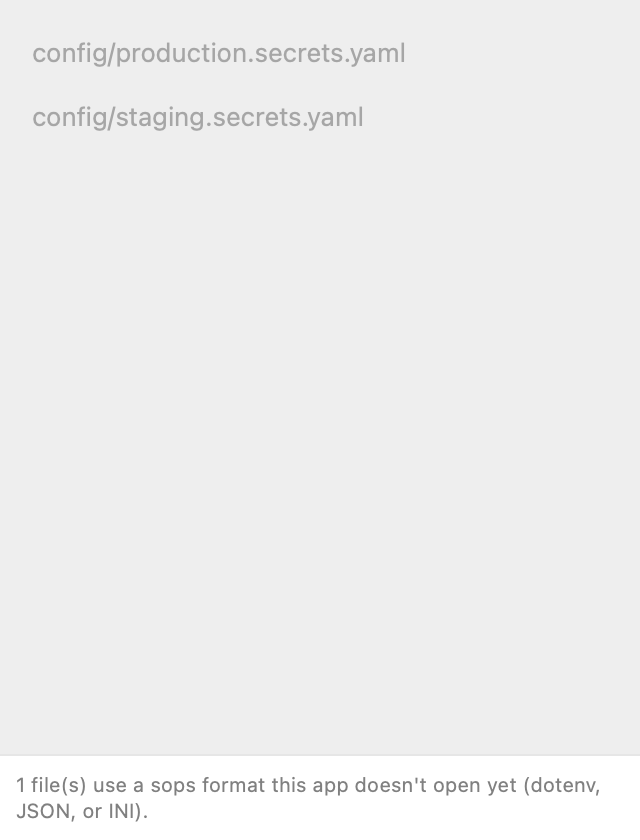
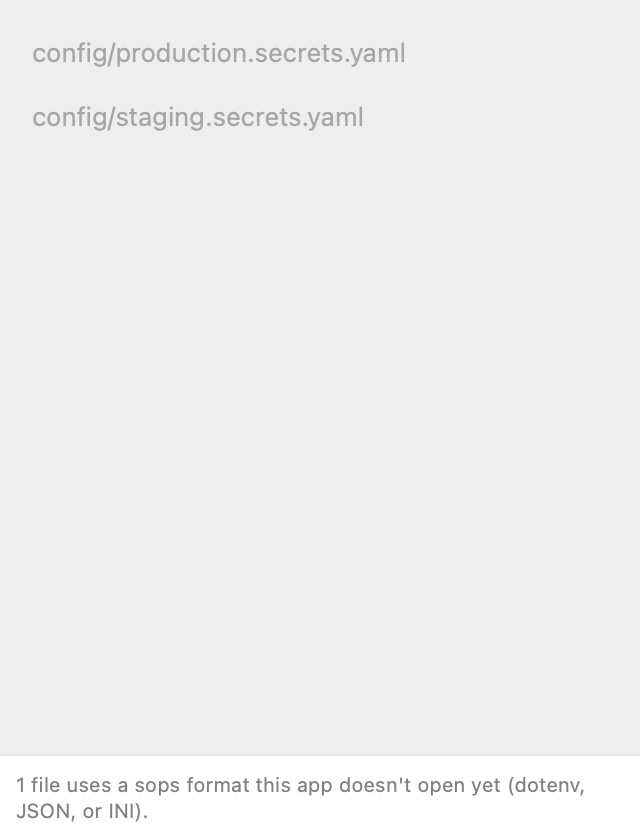
Pluralize the two strings that faked it with "(s)"
`%d file(s) use a sops format…` was wrong in the case that occurs most often —
exactly one file — and wrong twice in it: the parenthesis, and "use" for a
single file. `%1$@ (%2$d more item(s) in that drop had problems too.)` has the
same defect, and its count reaches 1 by an ordinary path: `addDroppedProjects`
formats `problems.count - 1`, so a drop with two problems says "1 more item(s)".

Both are now plural variations in the catalog — a direct `one`/`other` split for
the file note, and a `%#@more@` substitution on argument 2 for the drop error,
which is the shape Xcode writes when the varying number is not the only
argument.

Three tests, written before the fix and each seen failing on both keys:

- `noParentheticalPlurals` — no English form contains `(s)`, `(es)` or `(ies)`.
- `countedStringsPluralize` — any string formatting a count must pluralize on
  it, or appear in `countedStringsWithNoSingularCase` with the reason 1 cannot
  occur. One key is listed: `key.error.multiple-keys` is raised only after
  finding more than one key in a file, so its count starts at 2.
- `pluralsResolve` — bundle-based, gated like the other catalog tests. This is
  the half the JSON checks cannot see: that `String(localized:)` hands back the
  `%#@…@` template and `String(format:)` expands it. An entry shaped right but
  resolving wrong would print a literal `%#@more@` at the user, which is worse
  than the `(s)` it replaced.
[…]

Changed region(s): [[0.0938, 0.9286, 0.9375, 0.9595]]

diff --git a/Packages/SopsGUIKit/Tests/SopsUITests/LocalizationTests.swift b/Packages/SopsGUIKit/Tests/SopsUITests/LocalizationTests.swift
@@ -38,11 +38,52 @@ struct LocalizationTests {
                 struct StringUnit: Decodable {
                     let value: String
                 }
+                /// A plural (or device, or width) split. Only `plural` is used
+                /// here; the container is keyed by category name — `one`,
+                /// `other`, and whatever else a language needs.
+                struct Variations: Decodable {
+                    let plural: [String: Localization]?
+                }
+                /// Xcode's shape when the varying number is not the only
+                /// argument: the top-level `stringUnit` carries a `%#@name@`
+                /// token and the real forms live under `substitutions[name]`.
+                struct Substitution: Decodable {
+                    let argNum: Int?
+                    let formatSpecifier: String?
+                    let variations: Variations?
+                }
                 let stringUnit: StringUnit?
+                let variations: Variations?
+                let substitutions: [String: Substitution]?
             }
             let localizations: [String: Localization]?
         }
         let strings: [String: Entry]
+    }
+
+    /// Every English form a key can produce, whichever shape it is written in:
+    /// a plain `stringUnit`, a direct plural split, or a `%#@token@` with the
+    /// forms under `substitutions`. Flattened so a check can look at all of
+    /// them without caring which shape the catalog happens to use.
+    private static func englishForms(_ entry: StringCatalog.Entry) -> [String] {
+        guard let english = entry.localizations?["en"] else { return [] }
+        var forms: [String] = []
+        if let value = english.stringUnit?.value { forms.append(value) }
+        forms += (english.variations?.plural?.values ?? [:].values)
+            .compactMap { $0.stringUnit?.value }
+        for substitution in english.substitutions?.values ?? [:].values {
+            forms += (substitution.variations?.plural?.values ?? [:].values)
+                .compactMap { $0.stringUnit?.value }
+        }
+        return forms
+    }
+
+    /// True when the key pluralizes properly — a direct plural split, or a
+    /// substitution that carries one.
+    private static func hasPluralForms(_ entry: StringCatalog.Entry) -> Bool {
+        guard let english = entry.localizations?["en"] else { return false }
+        if english.variations?.plural != nil { return true }
+        return english.substitutions?.values.contains { $0.variations?.plural != nil } ?? false
     }
 
     /// `Tests/SopsUITests/LocalizationTests.swift` → package root → the catalog's
@@ -59,8 +100,13 @@ struct LocalizationTests {
         return try? JSONDecoder().decode(StringCatalog.self, from: data)
     }()
 
-    private static func englishValue(for key: LocalizedKey) -> String? {
-        catalog?.strings[key.rawValue]?.localizations?["en"]?.stringUnit?.value
+    /// Every English form for a key, in whichever shape the catalog writes it.
+    /// Not `stringUnit` alone: a pluralized entry has no top-level string unit
+    /// at all, so reading only that reported `files.other-format.note` as a
+    /// *missing* entry the moment it was pluralized properly.
+    private static func englishForms(for key: LocalizedKey) -> [String] {
+        guard let entry = catalog?.strings[key.rawValue] else { return [] }
+        return englishForms(entry)
     }
 
     // Every view added in any task must add its keys here. A key with no catalog
@@ -70,9 +116,13 @@ struct LocalizationTests {
     @Test("every key this module uses has a non-empty English catalog entry",
           arguments: LocalizedKey.allCases)
     func everyKeyHasCatalogEntry(key: LocalizedKey) throws {
-        let value = try #require(Self.englishValue(for: key),
-                                  "missing catalog entry for \(key.rawValue) in Localizable.xcstrings")
-        #expect(!value.isEmpty, "empty English catalog entry for \(key.rawValue) in Localizable.xcstrings")
+        let forms = Self.englishForms(for: key)
+        #expect(!forms.isEmpty,
+                "missing catalog entry for \(key.rawValue) in Localizable.xcstrings")
+        for form in forms {
+            #expect(!form.isEmpty,
+                    "empty English catalog entry for \(key.rawValue) in Localizable.xcstrings")
+        }
     }
 
     /// No shipped string may name an age key file's path.
@@ -94,12 +144,79 @@ struct LocalizationTests {
         let catalog = try #require(Self.catalog)
         let forbidden = ["keys.txt", "~/.config", "sops/age", "Application Support"]
 
+        // Every form, not just the top-level one: a path written into a plural
+        // variation is exactly as shipped as one written anywhere else.
         for (key, entry) in catalog.strings {
-            guard let value = entry.localizations?["en"]?.stringUnit?.value else { continue }
-            for fragment in forbidden {
-                #expect(!value.contains(fragment),
-                        "\(key) names \"\(fragment)\": a key-file path belongs to LegacyKeyFileImportOptions at runtime, not to a translatable string — \"\(value)\"")
+            for value in Self.englishForms(entry) {
+                for fragment in forbidden {
+                    #expect(!value.contains(fragment),
+                            "\(key) names \"\(fragment)\": a key-file path belongs to LegacyKeyFileImportOptions at runtime, not to a translatable string — \"\(value)\"")
+                }
             }
+        }
+    }
+
+    /// `file(s)`, `item(s)`, `entry(ies)` — the shape that turns a count into a
+    /// sentence no language reads naturally, English included.
+    ///
+    /// It is not a cosmetic complaint. `%d file(s) use a sops format…` is what
+    /// the file list actually drew under the one case that is most common —
+    /// exactly one file — and it drew it wrong twice over: the parenthesis and
+    /// the verb ("use" for a single file). It was found by looking at a
+    /// rendered PNG for `docs/GUIDE.md`, not by any test, which is why there is
+    /// now a test.
+    ///
+    /// Reads the catalog JSON, so it holds under both of this machine's
+    /// compilers (see this suite's header).
+    @Test("no English string fakes a plural with (s)")
+    func noParentheticalPlurals() throws {
+        let catalog = try #require(Self.catalog)
+        for (key, entry) in catalog.strings {
+            for form in Self.englishForms(entry) {
+                #expect(!form.contains("(s)") && !form.contains("(es)") && !form.contains("(ies)"),
+                        "\(key) fakes a plural: \"\(form)\" — use a plural variation in the catalog instead")
+            }
+        }
+    }
+
+    /// Keys whose English text formats a count but legitimately need no plural
+    /// split, each with the reason the singular case cannot occur. An entry
+    /// here is a claim about the call site, so it states which one.
+    ///
+    /// Deliberately not a blanket exemption for "error strings" or similar: the
+    /// value of the check below is that adding a counted string forces this
+    /// question to be answered once, in writing.
+    private static let countedStringsWithNoSingularCase: [String: String] = [
+        // `SessionKeyStore.importFromKeysFileContents` throws
+        // `.multipleKeysInFile(count:)` only after finding **more than one**
+        // non-comment line, so the count is 2 or greater by construction.
+        "key.error.multiple-keys":
+            "raised only when a keys.txt holds more than one key, so the count is never 1",
+    ]
+
+    @Test("every string that formats a count pluralizes on it")
+    func countedStringsPluralize() throws {
+        let catalog = try #require(Self.catalog)
+        // `%d`, `%lld`, `%2$d` — a decimal specifier in any of the spellings
+        // this catalog uses, positional or not.
+        let countSpecifier = try Regex(#"%(\d+\$)?l*d"#)
+
+        for (key, entry) in catalog.strings {
+            let forms = Self.englishForms(entry)
+            // `%#@token@` counts too. Once a key is written with a
+            // substitution its own forms hold `%arg` rather than `%d`, so
+            // matching only on a decimal specifier would quietly stop checking
+            // the very keys this rule already reached — including a future one
+            // whose substitution carries no plural split at all.
+            let formatsACount = forms.contains { $0.contains(countSpecifier) || $0.contains("%#@") }
+            guard formatsACount else { continue }
+            if let reason = Self.countedStringsWithNoSingularCase[key] {
+                #expect(!Self.hasPluralForms(entry),
+                        "\(key) is listed as having no singular case (\(reason)) but now pluralizes — remove the exemption")
+                continue
+            }
+            #expect(Self.hasPluralForms(entry),
+                    "\(key) formats a count with no plural variation: \"\(forms.first ?? "")\" — a count of 1 will read wrong. Add one, or list the key in countedStringsWithNoSingularCase with the reason 1 cannot occur.")
         }
     }
 
@@ -136,5 +253,31 @@ struct LocalizationTests {
           arguments: LocalizedKey.allCases)
     func everyKeyResolves(key: LocalizedKey) {
         #expect(key.text != key.rawValue, "missing catalog entry for \(key.rawValue)")
+    }
+
+    /// That the plural variations actually *resolve* — the half the catalog-JSON
+    /// checks above cannot see.
+    ///
+    /// Both call sites go through `String(format: LocalizedKey…text, count)`, so
+    /// what matters is not only that the catalog holds two forms but that
+    /// `String(localized:bundle:)` hands back the `%#@…@` template and
+    /// `String(format:)` expands it against the count. A catalog entry that is
+    /// shaped right and resolves wrong would leave the app printing a literal
+    /// `%#@count@` at the user, which is worse than the `(s)` it replaced.
+    @Test("counted strings read correctly at one and at many",
+          .enabled(if: LocalizationTests.bundleHasMacOSLayout,
+                   "swift test's native build system never compiles .xcstrings, so every key falls back to its raw value; run under xcodebuild or swift test --build-system swiftbuild to exercise this"))
+    func pluralsResolve() {
+        let one = String(format: LocalizedKey.filesOtherFormatNote.text, 1)
+        let many = String(format: LocalizedKey.filesOtherFormatNote.text, 3)
+        #expect(one.hasPrefix("1 file uses a sops format"), "one-file footnote reads: \(one)")
+        #expect(many.hasPrefix("3 files use a sops format"), "many-file footnote reads: \(many)")
+        #expect(!one.contains("%"), "unexpanded format specifier in: \(one)")
+
+        let oneMore = String(format: LocalizedKey.projectsErrorDropPartial.text, "That folder isn't readable.", 1)
+        let manyMore = String(format: LocalizedKey.projectsErrorDropPartial.text, "That folder isn't readable.", 4)
+        #expect(oneMore.contains("1 more item in that drop"), "one-extra drop error reads: \(oneMore)")
+        #expect(manyMore.contains("4 more items in that drop"), "many-extra drop error reads: \(manyMore)")
+        #expect(!oneMore.contains("%"), "unexpanded format specifier in: \(oneMore)")
     }
 }
